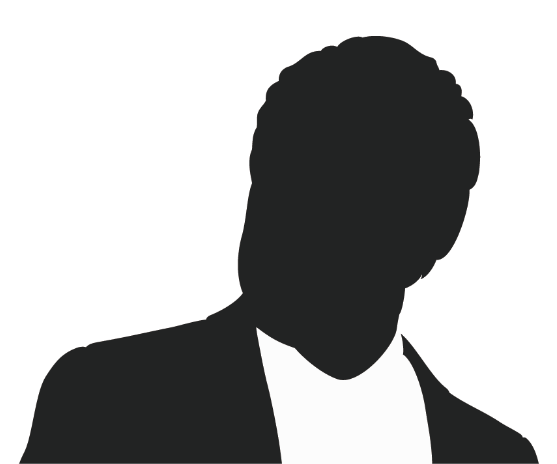
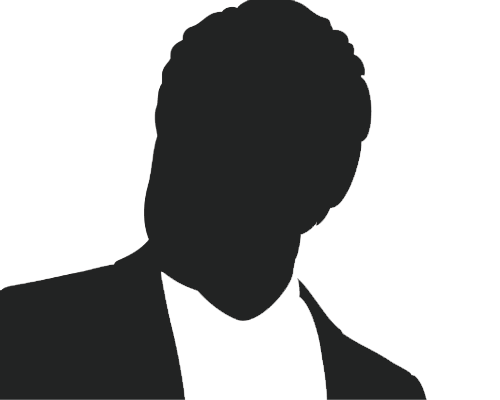
Review 構成修正

diff --git a/design/changemod/d2/index.html b/design/changemod/d2/index.html
@@ -45,7 +45,7 @@
 	<title>JOB-PRA(ジョブプラ) - お手伝いからはじめるお仕事の練習アプリ 【お手伝いをクエストで管理】</title>
 	<link rel="stylesheet" type="text/css" href="css/slick.css">
 	<link rel="stylesheet" type="text/css" href="css/slick-theme.css">
-	<link rel="stylesheet" type="text/css" href="css/style.css?202005271100">
+	<link rel="stylesheet" type="text/css" href="css/style.css">
 	<script type="text/javascript" src="js/jquery-3.4.1.min.js"></script>
 	<script type="text/javascript" src="js/slick.min.js"></script>
 	<script type="text/javascript" src=js/main.js></script>
@@ -169,8 +169,9 @@
 			</div>
 			<!-- SCROLL WINDOW -->
 			<div class="scrollWindow">
+				<!-- lady -->
 				<div>
-					<div class="lady person"></div>
+					<div class="person image01"></div>
 					<div class="voice">
 						<h4>
 							<span>Aさん４０才（女性）</span>
@@ -179,7 +180,9 @@
 						<p>子供たちのやることをホワイトボードにマグネットをつけて管理してました。<br>しかし、いつ何をやったかというのはメモしたり、記憶をたどったりと面倒でした。JOB-PRAはこのような問題を解決してくれて助かってます。</p>
 					</div>
 				</div>
+				<!-- gentle -->
 				<div>
+					<div class="person image02"></div>
 					<div class="voice">
 						<h4>
 							<span>Bさん４３才（男性）</span>
@@ -187,8 +190,20 @@
 						</h4>
 						<p>うちでは月のお小遣いを定額ではなく、お手伝いの対価として与えてます。例えば、お風呂掃除は１回50円という感じです。しかし、やったかどうかを管理することができていなくちゃんとした管理ができていませんでした。<br>JOB-PRAでは、そのへんを管理できてよいと思います。</p>
 					</div>
-					<div class="gentle person"></div>
 				</div>
+				<!-- Image -->
+				<!-- 
+				<div>
+					<div class="image03 person"></div>
+					<div class="voice">
+						<h4>
+							<span>Bさん４３才（男性）</span>
+							<span>３児の育児中</span>
+						</h4>
+						<p>うちでは月のお小遣いを定額ではなく、お手伝いの対価として与えてます。例えば、お風呂掃除は１回50円という感じです。しかし、やったかどうかを管理することができていなくちゃんとした管理ができていませんでした。<br>JOB-PRAでは、そのへんを管理できてよいと思います。</p>
+					</div>
+				</div> 
+				-->
 			</div>
 		</section>
 		<section id="faq">

diff --git a/design/changemod/d2/css/style.css b/design/changemod/d2/css/style.css
@@ -627,26 +627,32 @@ section#voice .scrollWindow > div{
 	margin: 30px auto;
 	color: #333333;
 }
+section#voice .scrollWindow > div:nth-of-type(odd){
+	flex-direction: row;
+}
+section#voice .scrollWindow > div:nth-of-type(even){
+	flex-direction: row-reverse;
+}
 
 section#voice .scrollWindow > div > div{
 	/*height: 350px;*/
 }
 section#voice .scrollWindow > div > div.person{
-	width: 40%;
+	width: 300px;
 	background-color: #fff;
-	background-size: contain;
+	background-size: cover;
 	background-repeat: no-repeat;
-	background-position: bottom;
+	background-position: top center;
 }
-section#voice .scrollWindow > div > div.person.lady{
+.image01{
 	background-image: url(../img/chara/lady.png);
 }
-section#voice .scrollWindow > div > div.person.gentle{
+.image02{
 	background-image: url(../img/chara/gentle.png);
-	background-size: 80%;
 }
+
 section#voice .scrollWindow > div > div.voice{
-	width: 60%;
+	width: calc(100% - 300px);
 	padding: 10px 25px;
 }
 section#voice .scrollWindow > div > div.voice > h4{
@@ -999,18 +1005,19 @@ a#appLink:hover > img{
 	section#voice .scrollWindow > div > div{
 		/*height: 200px;*/
 	}
+	section#voice .scrollWindow > div > div.person{
+		width: 165px;
+	}
 	section#voice .scrollWindow > div > div.voice{
-		padding: 5px;
+		width: calc(100% - 165px);
+		padding: 5px 25px;
+
 	}
 	section#voice .scrollWindow > div > div.voice > h4{
 		font-size: 16px;
 	}
 	section#voice .scrollWindow > div > div.voice > p{
 		font-size: 12px;
-	}
-	section#voice .scrollWindow > div > div.person.gentle{
-		background-size: 70%;
-		background-position: center bottom;
 	}
 	section#faq > div:nth-of-type(1){
 		width: 95%;
@@ -1022,9 +1029,8 @@ a#appLink:hover > img{
 	}
 }
 @media screen and (max-width: 500px){
-	section#voice .scrollWindow > div > div.person.gentle{
-		background-size: 240px;
-		background-position: 75% 100%;
+	section#voice .scrollWindow > div > div.voice{
+		padding: 5px;
 	}
 }
 @media screen and (max-width: 400px){
@@ -1033,5 +1039,11 @@ a#appLink:hover > img{
 	}
 	header > nav > ul > li > a{
 		font-size: 18px;
+	}
+	section#voice .scrollWindow > div > div.person{
+		width: 45%;
+	}
+	section#voice .scrollWindow > div > div.voice{
+		width: 65%;
 	}
 }
